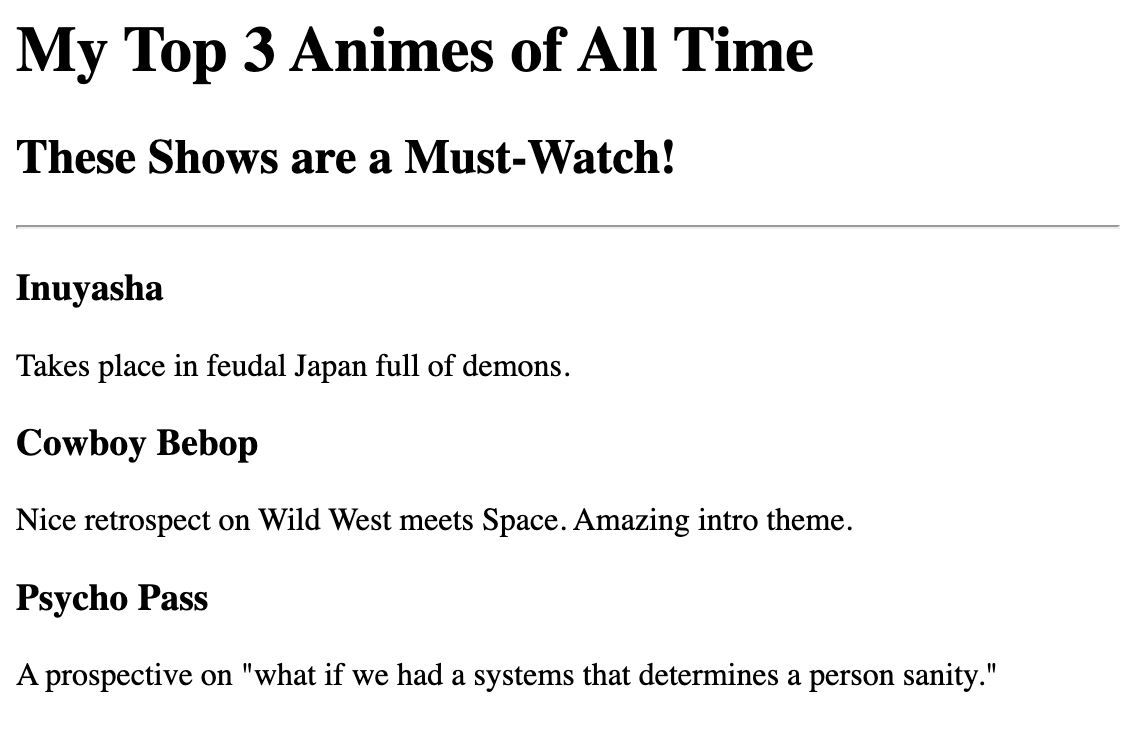
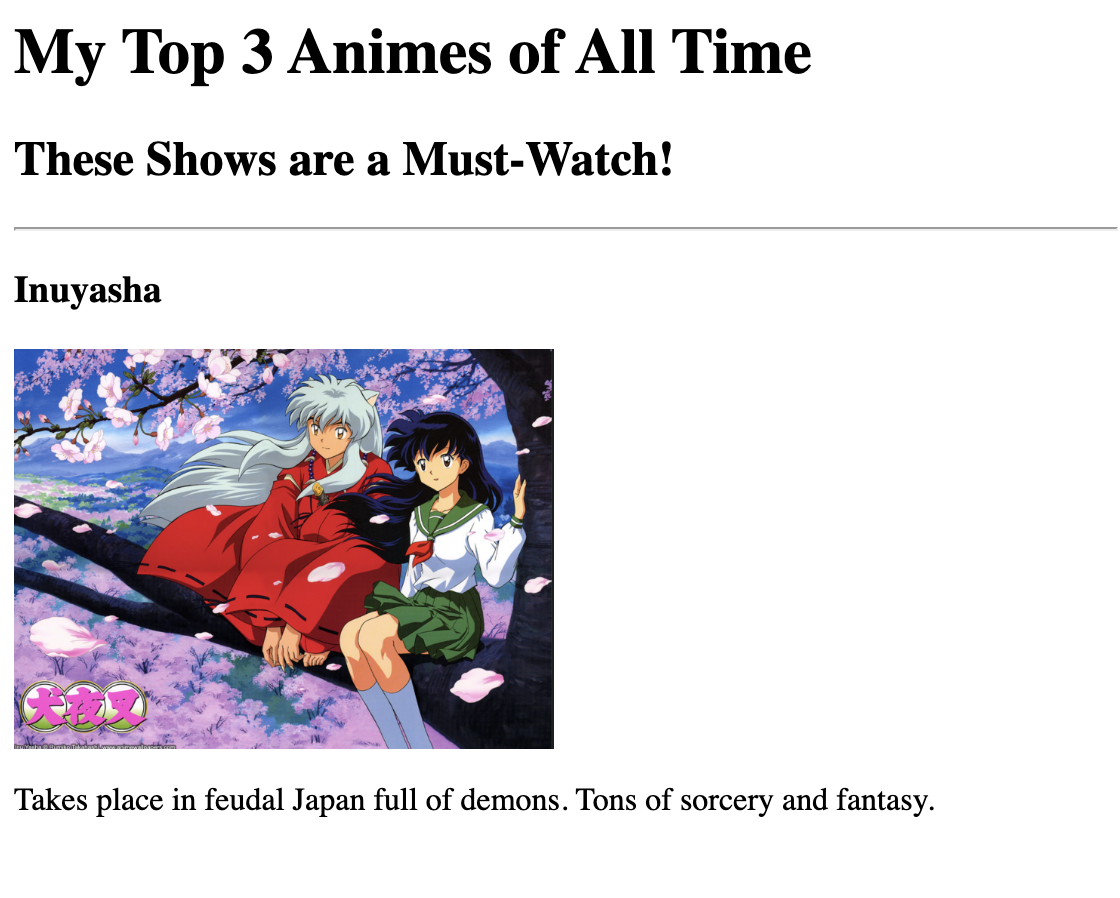
Add files via upload

diff --git a/index.html b/index.html
@@ -1,18 +1,3 @@
-<!-- TODO 1: Create the HTML Boilerplate -->
-
-<!-- TODO 2: Add Your previous projects' HTML into the public folder -->
-
-<!-- TODO 3: Take screenshots of your project previews and add the images to the images folder -->
-
-<!-- TODO 4: Add titles/subtitles etc. -->
-
-<!-- TODO 5: Add a link to the project pages -->
-
-<!-- TODO 6: Add images to show the project previews
-HINT for TODO 6: You can use the height attribute set to 200 to make the image smaller:
-https://developer.mozilla.org/en-US/docs/Web/HTML/Element/img#attr-height -->
-
-<!-- TODO 7: Add the Contact Me and About Me page links -->
  <!DOCTYPE html>
  <html lang="en">
  <head>
@@ -21,7 +6,7 @@ https://developer.mozilla.org/en-US/docs/Web/HTML/Element/img#attr-height -->
  </head>
  <body>
     <h1>Kylan Chapman's Portfolio</h1>
-      <h2>Web Developer for Fun</h2>
+      <h2>Web Developing for Fun</h2>
       <hr />
         <a href="./public/anime-ranking.html"><h3>Anime Ranking Project</h3></a>
         <a href="./public/anime-ranking.html">

diff --git a/public/anime-ranking.html b/public/anime-ranking.html
@@ -3,12 +3,15 @@
 <h2>These Shows are a Must-Watch!</h2>
 <hr>
 <h3>Inuyasha</h3>
-<p>Takes place in feudal Japan full of demons.</p>
+<img src="../assets/images/inuyasha.png" height="200">
+<p>Takes place in feudal Japan full of demons. Tons of sorcery and fantasy.</p>
 <br>
 <h3>Cowboy Bebop</h3>
-<p>Nice retrospect on Wild West meets Space. Amazing intro theme.</p>
+<img src="../assets/images/cowboy-bebop.png" height="200">
+<p>Nice retrospect on Wild West meets Space. Amazing intro theme song.</p>
 <br>
 <h3>Psycho Pass</h3>
+<img src="../assets/images/pychopass.png" height="200">
 <p>A prospective on "what if we had a systems that determines a person sanity."</p>
 <hr>
 <a href="../index.html">Home</a>
